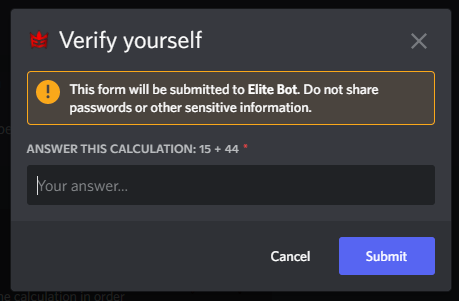
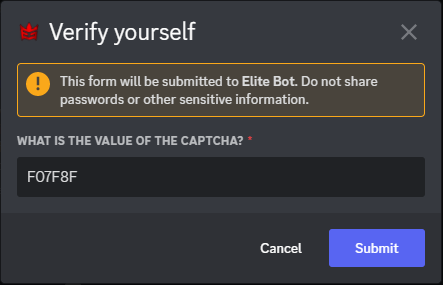
(->v3.2.1) Match Verification Captcha Re-work (v2)
+ Updated the verification feature page with the new captcha system and content.
+ Replaced old images with updates ones.

Changed region(s): [[0.0, 0.0, 0.9977, 1.0], [0.5869, 0.814, 0.7043, 0.8982], [0.8804, 0.0842, 0.9391, 0.1684]]

diff --git a/docs/verificationfeature.md b/docs/verificationfeature.md
@@ -4,6 +4,12 @@ title: Verification Feature
 slug: /verification-feature
 ---
 
+:::note
+
+Recently reworked to v2: This update was entirely recreated from scratch, and now offers captcha functionality which significantly improves security of your server and prevents bot accounts to a much greater effectiveness. As per Google's data, captcha is 99.8% accurate 😏
+
+:::
+
 ## Toggling the feature
 
 Firstly, you can toggle the feature on using the "/toggle verification" command within your guild returning true to enable (or false to disable).
@@ -36,18 +42,22 @@ One of the recent updates has introduced the ability to use "/n" to create new l
 
 Finally, use the command "/verification menu" in order to post the embed into the channel you wish to use for verification.
 
-An example of the embed:
+An example of running the command and creating the embed:
 
 ![img](../static/img/verificationmenu-embed.png)
 
-An example of verification step after pressing the button:
+An example of the captcha embed after pressing begin verification button:
+
+![img](../static/img/verificationmenu-captcha.png)
+
+An example of verification prompt after pressing the verify button:
 
 ![img](../static/img/verificationmenu-modal.png)
 
-:::important
+:::tip
 
-The user will have 60 seconds to answer the calculation, otherwise the modal will close and a too slow message will show.
+Users can close the verification prompt screen, to see the captcha again without losing already-typed contents, making this easy! You may also press the original begin verification button if you wish to see a new captcha.
 
 :::
 
-And... that's it! The verification system is now fully configured and requires no other configuration.
+Once the user submits the prompt, if the captcha answer is correct then they will receive the role configured previously, otherwise they are returned with an error to try again! And... that's it! The verification system is now fully configured and requires no other configuration.
